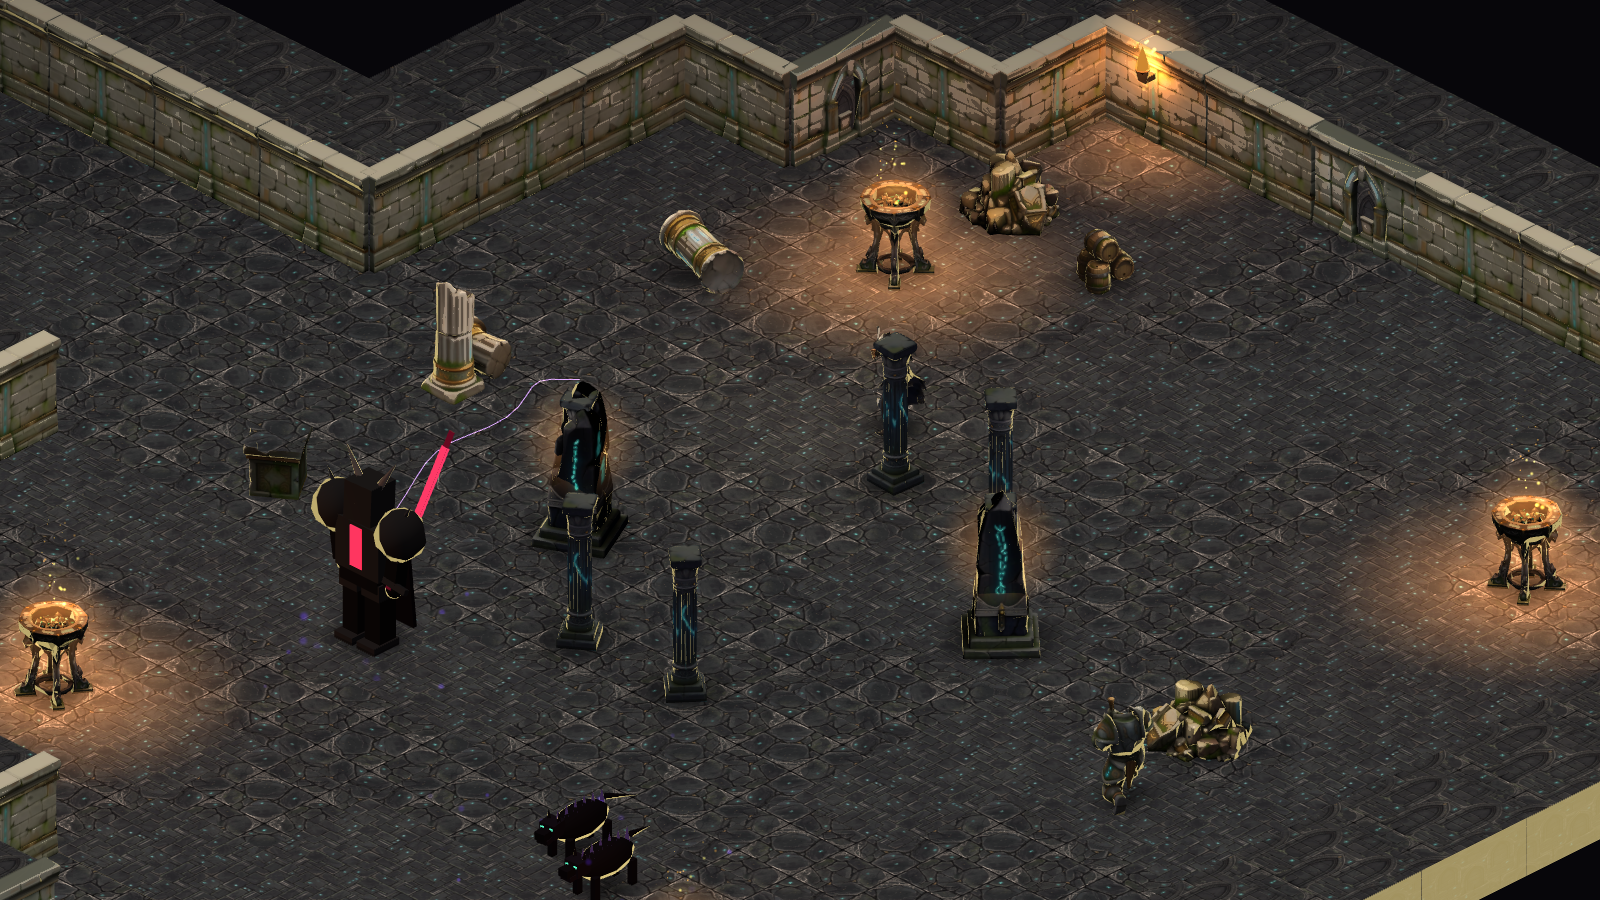
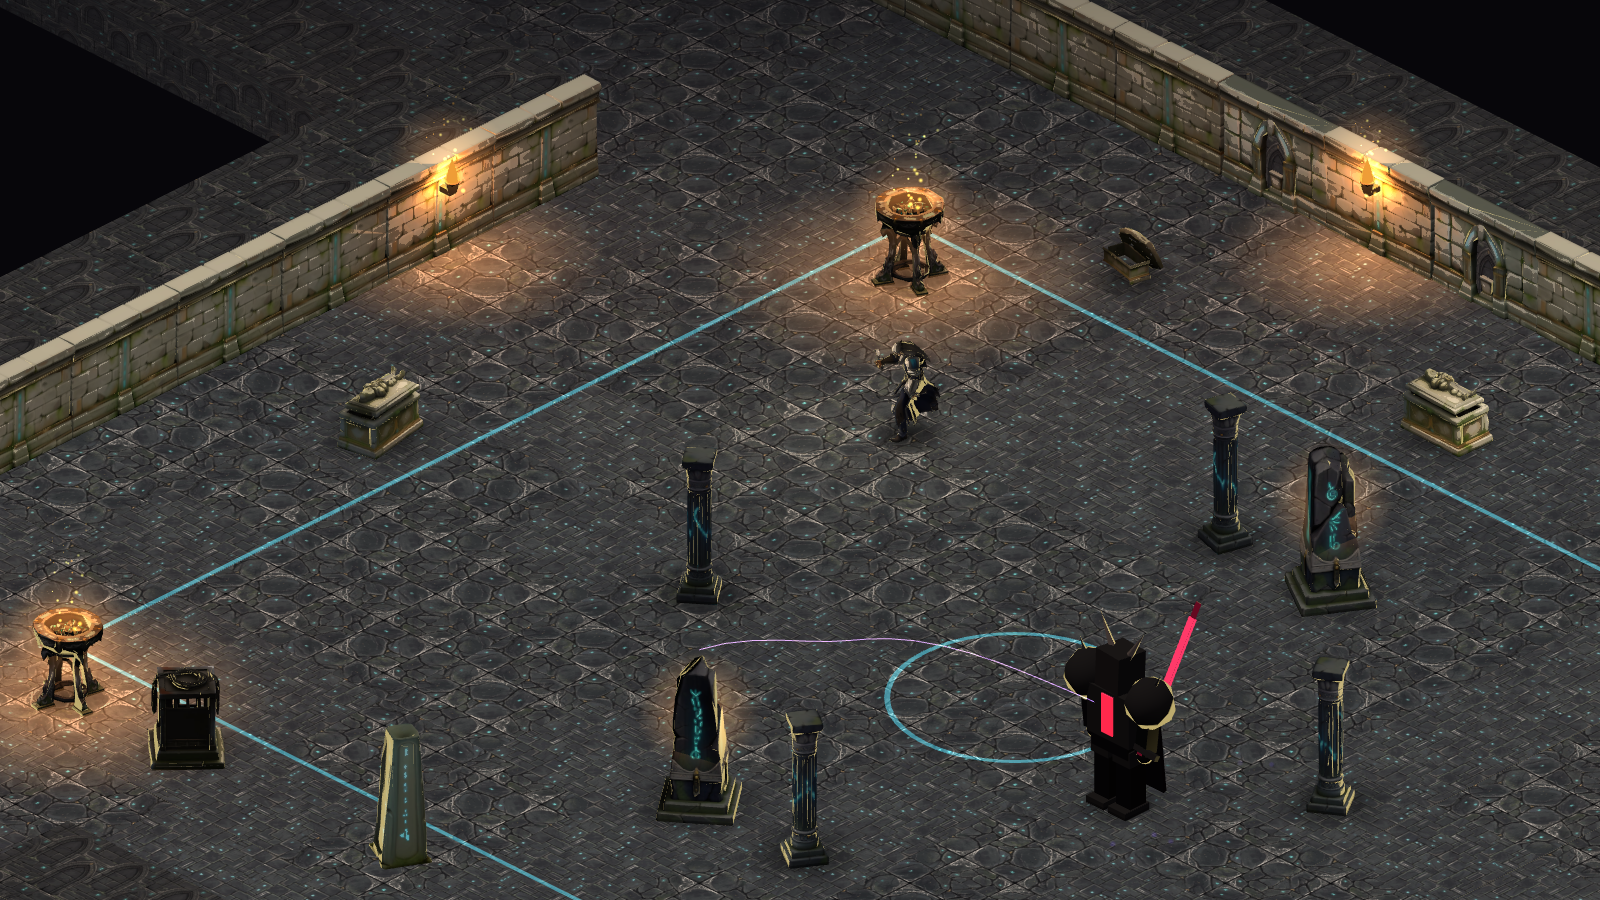
Floor pass: per-room tint, worn tiles, brighter flagstone, rune ring and border inlays
Claude-Session: https://claude.ai/code/session_01AZqGtGy81B4DUW4Xvq9Knm

diff --git a/src/world/DungeonInstancer.ts b/src/world/DungeonInstancer.ts
@@ -53,6 +53,7 @@ export class DungeonInstancer {
   private lightSrc: Array<{ x: number; y: number; z: number }> = [];
   readonly torches: Array<{ x: number; z: number; yaw: number }> = [];
   private flameMat!: THREE.MeshBasicMaterial;
+  private inlayMat?: THREE.MeshBasicMaterial;
 
   constructor(readonly dungeon: Dungeon) {
     const d = dungeon;
@@ -79,18 +80,49 @@ export class DungeonInstancer {
     const floorGeo = own(new THREE.BoxGeometry(TILE, 0.4, TILE).translate(0, -0.2, 0));
     const floorVariants = ['floor_a', 'floor_b'].map((n, v) => {
       const map = tex(n);
-      const mat = own(lit(createToonMaterial({ color: 0xffffff, map, veins: 1, rim: 0.4, band: 0.2 }), map, 0.6));
+      const mat = own(lit(createToonMaterial({ color: 0xffffff, map, veins: 1, rim: 0.4, band: 0.2 }), map, 0.9));
       const tiles = floorTiles.filter((idx) => ((hash(idx % GRID, (idx / GRID) | 0) * 7) | 0) % 2 === v);
       return { mat, tiles };
     });
+    // per-room floor tint: warm start hall, cool crypts, teal-leaning boss hall; plus worn / cracked tiles
+    const roomTint = (x: number, y: number): [number, number, number] => {
+      const r = d.rooms.find((q) => x >= q.x && x < q.x + q.w && y >= q.y && y < q.y + q.h);
+      if (!r) return [0.9, 0.9, 0.92];
+      if (r.kind === 'start') return [1.08, 0.98, 0.84];
+      if (r.kind === 'boss') return [0.92, 1.0, 1.1];
+      return r.decor.some((q) => q.id === 'sarcophagus') ? [0.9, 1.02, 1.1] : [1.04, 1.0, 0.94];
+    };
     for (const { mat, tiles } of floorVariants) {
       const mesh = add(new THREE.InstancedMesh(floorGeo, mat, Math.max(1, tiles.length)));
       mesh.count = tiles.length;
       tiles.forEach((idx, n) => {
-        const x = idx % GRID, y = (idx / GRID) | 0, h = hash(x, y);
+        const x = idx % GRID, y = (idx / GRID) | 0, h = hash(x, y), w = hash(x * 1.7 + 3, y * 2.3 + 1);
         put(mesh, n, tileToWorld(x), 0, tileToWorld(y), Math.floor(hash(y, x) * 4) * Math.PI / 2);
-        mesh.setColorAt(n, c.setScalar(0.82 + h * 0.18));
+        const k = (w < 0.1 ? 0.7 : 1.0 + h * 0.3) * 1.12, [tr, tg, tb] = roomTint(x, y);
+        mesh.setColorAt(n, c.setRGB(k * tr, k * tg, k * tb));
       });
+    }
+    // inlaid rune rings / borders: one merged glow mesh for every room
+    const inlay: THREE.BufferGeometry[] = [];
+    const ring = (cx: number, cz: number, r0: number, r1: number, seg = 64) => inlay.push(new THREE.RingGeometry(r0, r1, seg).rotateX(-Math.PI / 2).translate(cx, 0.03, cz));
+    for (const r of d.rooms) {
+      if (r.kind === 'start') { ring(r.center.x, r.center.z, 2.9, 3.0); continue; }
+      const { x: cx, z: cz } = r.center;
+      if (r.kind === 'boss') {
+        ring(cx, cz, 3.3, 3.45); ring(cx, cz, 4.7, 4.8); ring(cx, cz, 6.4, 6.5);
+        for (let a = 0; a < 8; a++) inlay.push(new THREE.PlaneGeometry(0.1, 3.2).rotateX(-Math.PI / 2).translate(0, 0, -4.7).rotateY(a * Math.PI / 4 + Math.PI / 8).translate(cx, 0.03, cz));
+      } else {
+        ring(cx, cz, 2.1, 2.2, 48);
+      }
+      if (r.shape === 'rect') { // stone-inlay border two tiles in from the walls
+        const hw = (r.w / 2 - 2) * TILE, hh = (r.h / 2 - 2) * TILE;
+        if (hw > 2 && hh > 2) for (const [sx, sz, w, h] of [[0, -hh, hw * 2, 0.1], [0, hh, hw * 2, 0.1], [-hw, 0, 0.1, hh * 2], [hw, 0, 0.1, hh * 2]] as number[][]) inlay.push(new THREE.PlaneGeometry(w, h).rotateX(-Math.PI / 2).translate(cx + sx, 0.03, cz + sz));
+      }
+    }
+    if (inlay.length) {
+      this.inlayMat = own(new THREE.MeshBasicMaterial({ color: 0x35e0ff, transparent: true, opacity: 0.4, blending: THREE.AdditiveBlending, depthWrite: false, polygonOffset: true, polygonOffsetFactor: -2 }));
+      const im = new THREE.Mesh(own(mergeGeometries(inlay.map((g) => { g.deleteAttribute('uv'); g.deleteAttribute('normal'); return g; }))!), this.inlayMat);
+      im.frustumCulled = false; im.renderOrder = 1; this.group.add(im); this.drawCalls++;
     }
     const vcMat = own(createToonMaterial({ vertexColors: true, rim: 1 }));
     // props with an imported painted texture get their own lit material; procedural ones use vertex colours
@@ -356,6 +388,7 @@ export class DungeonInstancer {
       this.poolMat.color.setHex(0xffa050).lerp(new THREE.Color(0x3fffd0), b); this.poolMat.opacity = 0.5 * fl;
       this.haloMat.color.setHex(0xffa050).lerp(new THREE.Color(0x7affd0), b); this.haloMat.opacity = 0.5 * fl; this.haloMat.size = this.haloBase * (0.95 + 0.1 * fl);
     }
+    if (this.inlayMat) { this.inlayMat.opacity = 0.34 + 0.12 * Math.sin(t * 1.4); this.inlayMat.color.setHex(0x35e0ff).lerp(new THREE.Color(0x9affc8), b); }
     if (this.flameMat) this.flameMat.color.setHex(0xffa83a).lerp(new THREE.Color(0x7affd0), b);
     const warm = new THREE.Color(0xff9a45), cold = new THREE.Color(0x4fffd0);
     for (let i = 0; i < NUM_LIGHTS; i++) {
